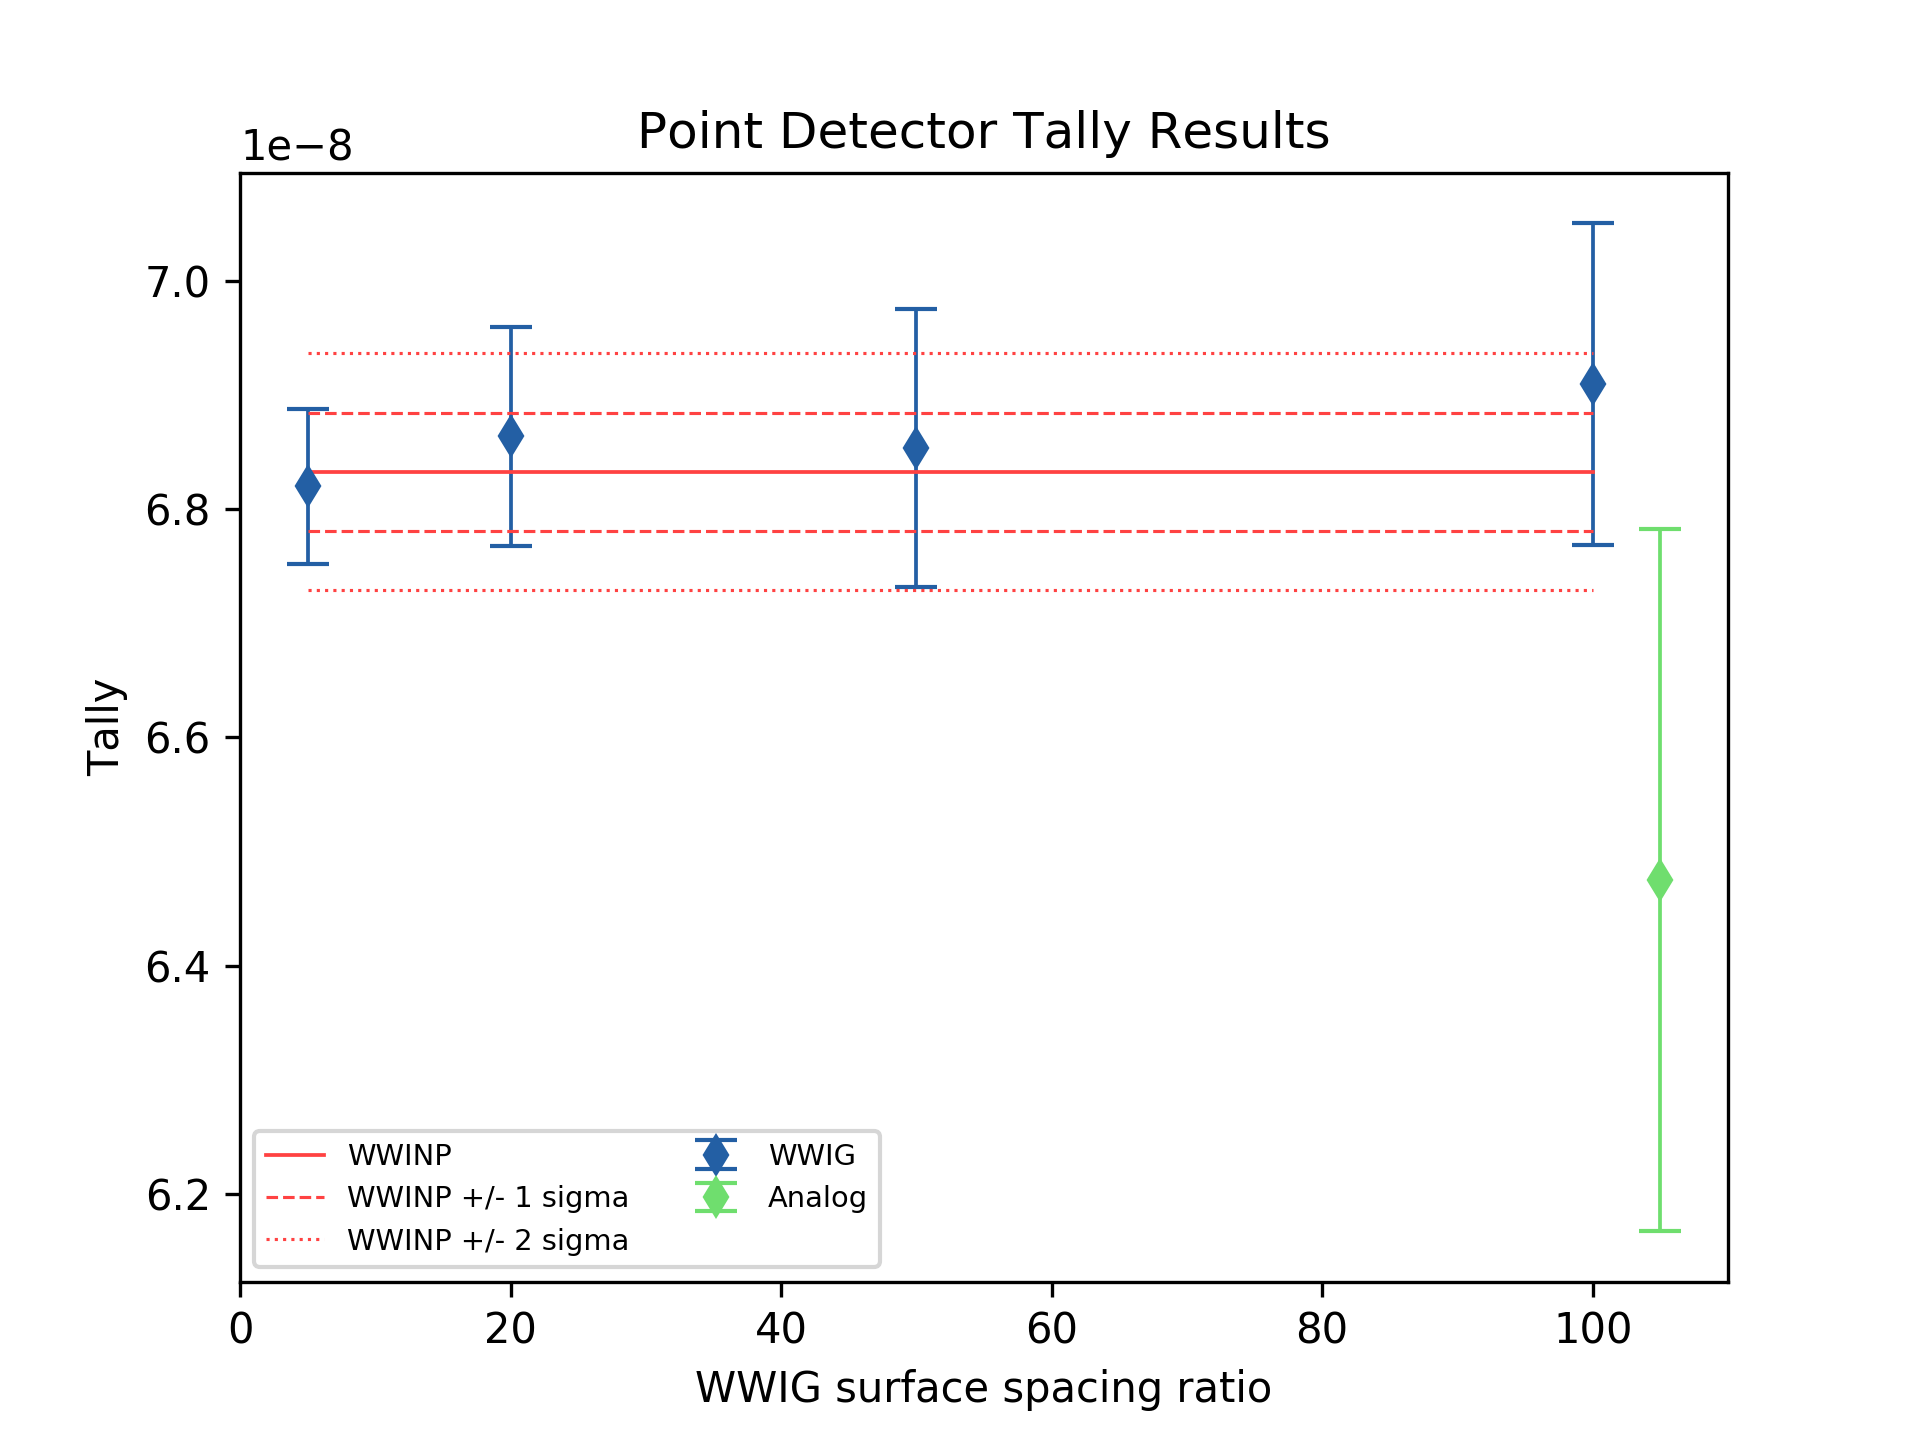
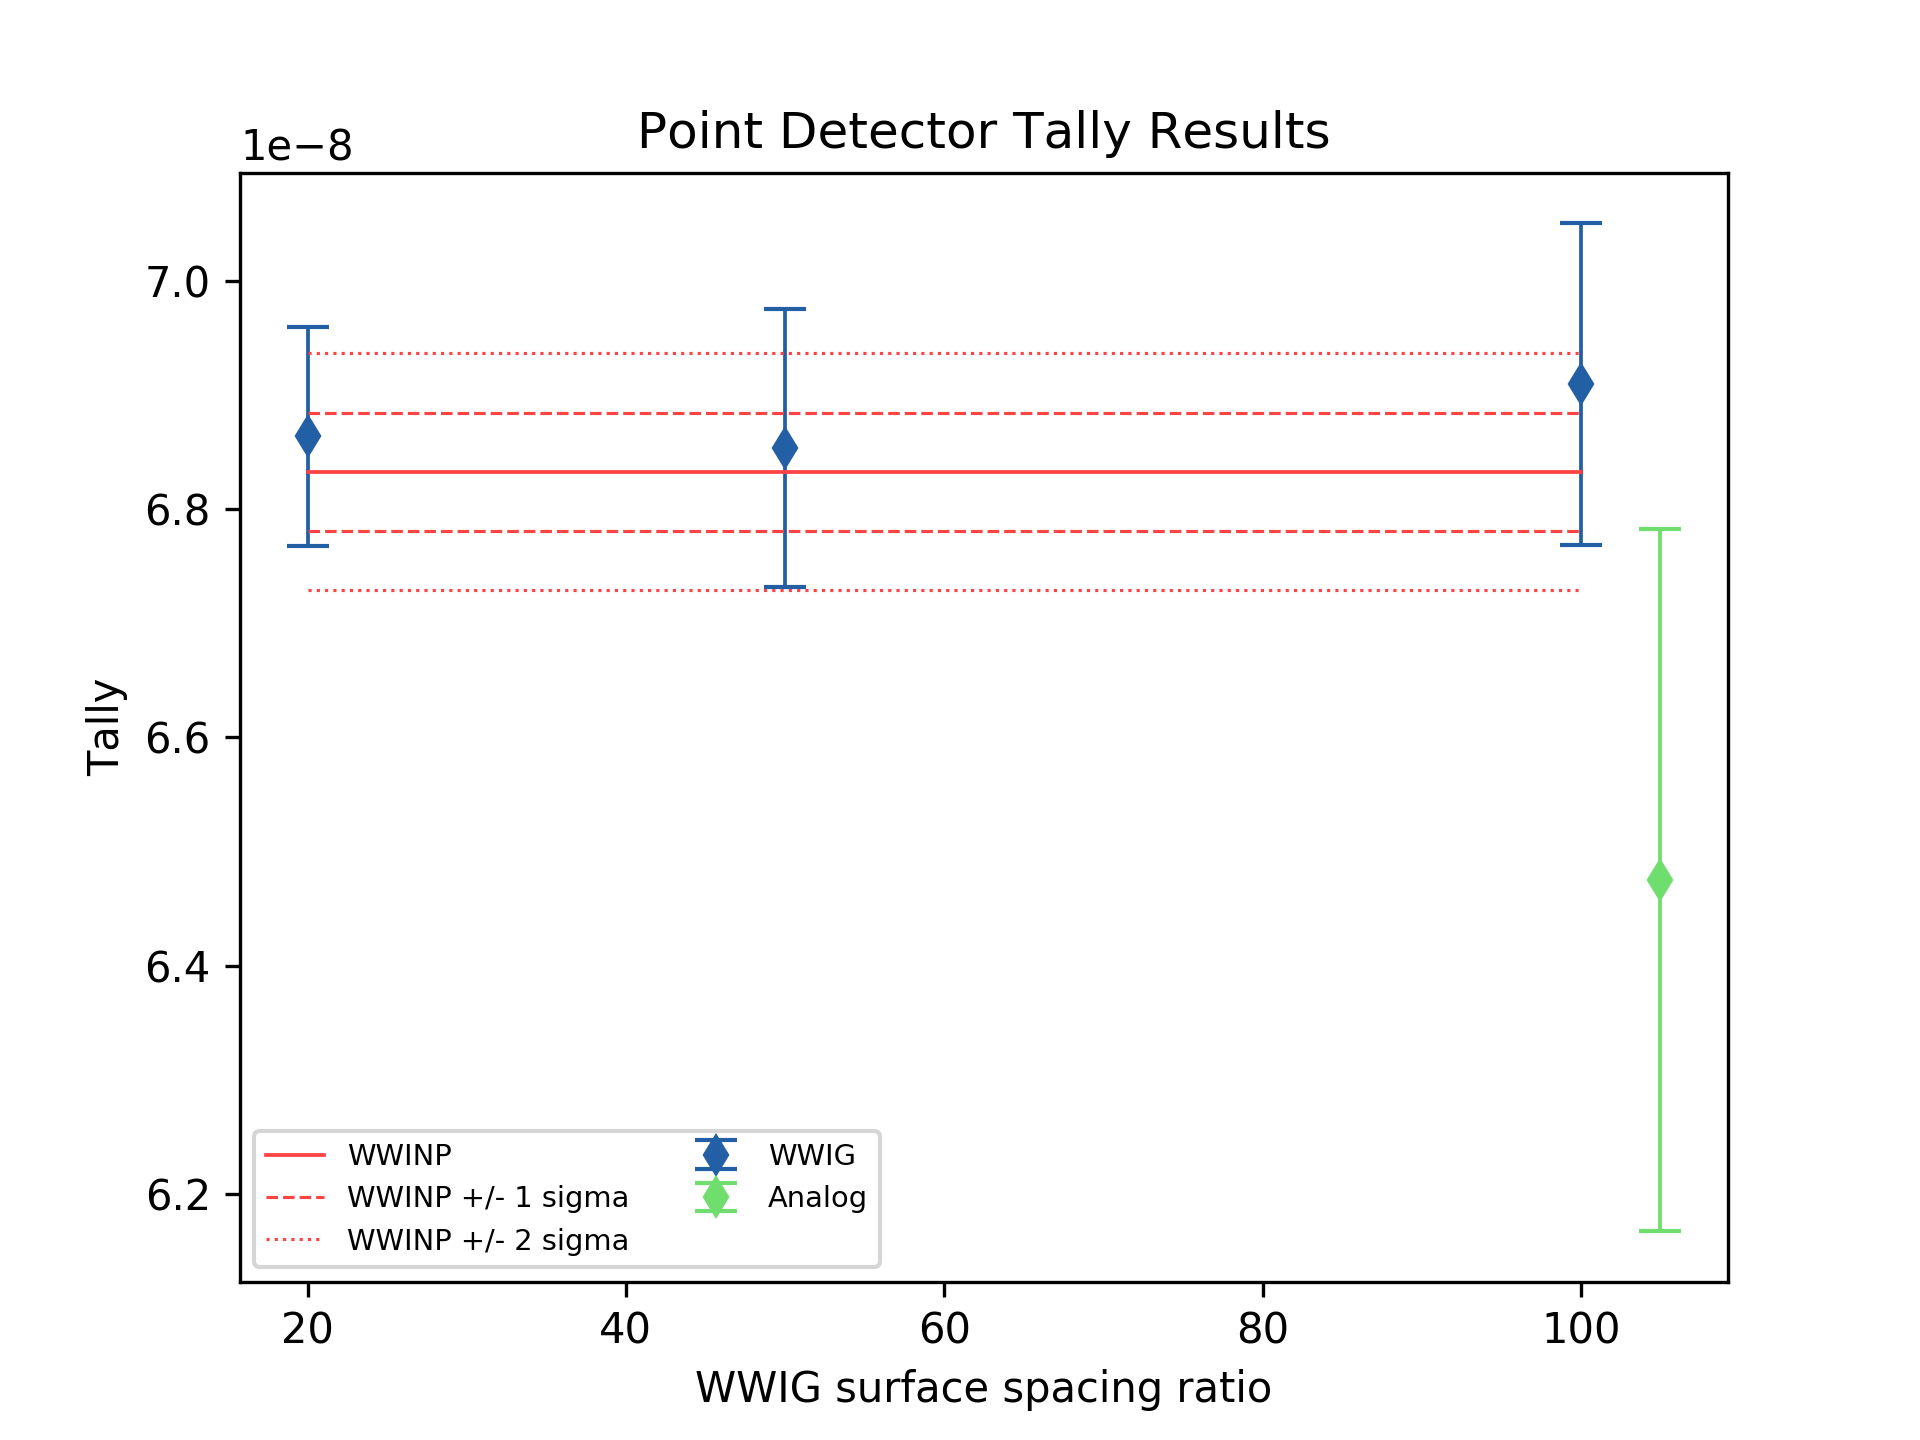
removed r=5 data point

diff --git a/analyze/tally_15.py b/analyze/tally_15.py
@@ -25,13 +25,13 @@ def calc_ratios(m1, e1, m2, e2):
 
 ## Data
 
-ratios = np.array([5, 20, 50, 100])
-wwig_res = np.array([6.82e-8, 6.8638E-08, 6.8536E-08, 6.9097E-08])  # placeholders
-wwig_err = np.array([.01, 0.0140, 0.0178, 0.0204])  # placeholders
-wwinp_res = np.array([6.8328E-08, 6.8328E-08, 6.8328E-08, 6.8328E-08])
-wwinp_err = np.array([0.0076, 0.0076, 0.0076, 0.0076])
-analog_res = np.array([6.47480E-08, 6.47480E-08, 6.47480E-08, 6.47480E-08])
-analog_err = np.array([0.0475, 0.0475, 0.0475, 0.0475])
+ratios = np.array([20, 50, 100])
+wwig_res = np.array([6.8638E-08, 6.8536E-08, 6.9097E-08])
+wwig_err = np.array([0.0140, 0.0178, 0.0204])
+wwinp_res = np.array([6.8328E-08, 6.8328E-08, 6.8328E-08])
+wwinp_err = np.array([0.0076, 0.0076, 0.0076])
+analog_res = np.array([6.47480E-08, 6.47480E-08, 6.47480E-08])
+analog_err = np.array([0.0475, 0.0475, 0.0475])
 
 wwinp1_upper, wwinp1_lower = calc_sigmas(wwinp_res, wwinp_err, 1)
 wwinp2_upper, wwinp2_lower = calc_sigmas(wwinp_res, wwinp_err, 2)
@@ -66,7 +66,7 @@ plt.legend(loc='best', ncol=2, fontsize='x-small')
 plt.savefig('tally15_results.png', dpi=dpi)
 
 # plot wwinp ratio
-r1 = np.array([1, 1, 1, 1])
+r1 = np.array([1, 1, 1])
 
 # ratios compared to wwinp results
 wratio, werr = calc_ratios(wwig_res, wwig_err, wwinp_res, wwinp_err)
